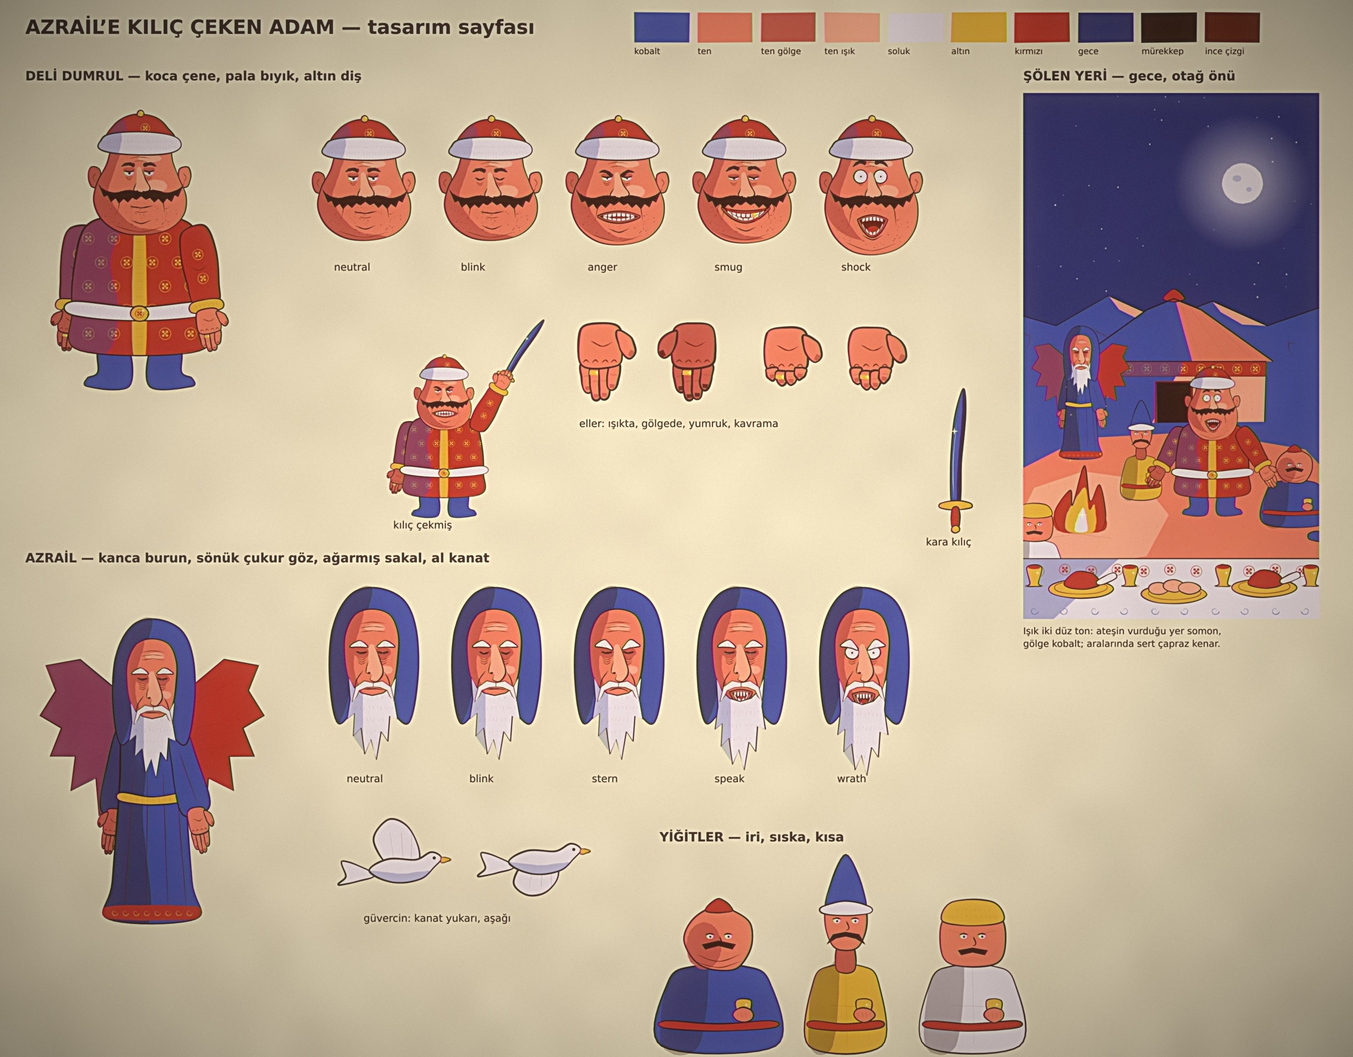
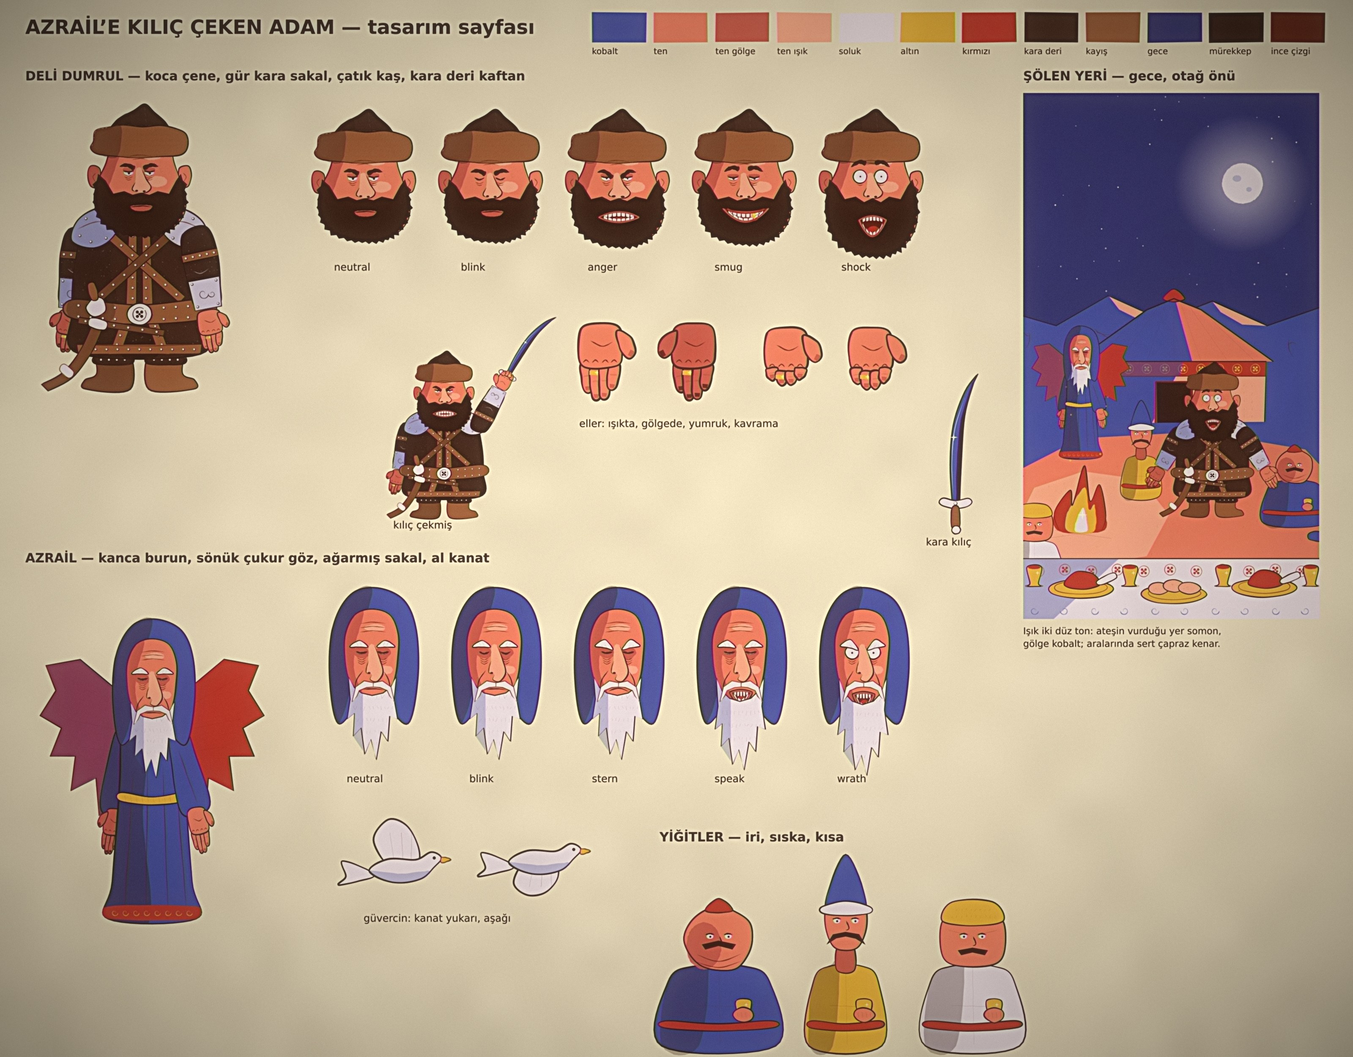
Deli Dumrul yeniden tasarlandı: kara deri kaftan, zımbalı kayışlar, omuzluk, kürklü börk, gür sakal

diff --git a/shorts/deli_dumrul/cast.py b/shorts/deli_dumrul/cast.py
@@ -5,98 +5,106 @@ from ..kit import *
 # Kilitli palet: bir mavi, bütün kadro için tek ten, bir soluk, iki vurgu.
 COBALT, SKIN, PALE, GOLD, RED = '#2a3fa3', '#ee6f58', '#e7dcf2', '#e3a72c', '#b3231c'
 SKIN_D, SKIN_L = '#c0473f', '#f89e84'      # gölgede koyu ten, ışıkta açık ten
+COAT, LEATHER = '#23130f', '#8a4b2c'       # Dumrul'un kara deri kaftanı (mürekkebin açığı) ve kayış kahvesi
 
 EXPR = {
-    'neutral': dict(brow=0.0, by=0, open=1.0, pupil=4.5, mouth='closed', jaw=0),
-    'blink':   dict(brow=0.0, by=1, open=0.0, pupil=4.5, mouth='closed', jaw=0),
-    'anger':   dict(brow=0.55, by=8, open=0.85, pupil=3.0, mouth='snarl', jaw=14, flare=1),
+    'neutral': dict(brow=0.32, by=4, open=0.9, pupil=4.2, mouth='closed', jaw=0),      # dinlenirken bile çatık
+    'blink':   dict(brow=0.32, by=5, open=0.0, pupil=4.2, mouth='closed', jaw=0),
+    'anger':   dict(brow=0.7, by=10, open=0.8, pupil=2.8, mouth='snarl', jaw=16, flare=1),
     'smug':    dict(brow=-0.18, by=-3, open=0.62, pupil=4.0, mouth='grin', jaw=8),
     'shock':   dict(brow=-0.3, by=-22, open=1.0, pupil=2.8, mouth='gape', jaw=46, shock=True),
 }
 
 
+def stud(x, y, r=4.2):
+    return f'<circle cx="{x:.1f}" cy="{y:.1f}" r="{r + 1.2:.1f}" fill="{INK}"/><circle cx="{x - 0.6:.1f}" cy="{y - 0.6:.1f}" r="{r:.1f}" fill="{PALE}"/>'
+
+
+def strap(a, b, w=26, studs=7, shade=False):
+    """Zımbalı deri kayış: iki nokta arasında bant."""
+    dx, dy = b[0] - a[0], b[1] - a[1]; d = math.hypot(dx, dy) or 1; nx, ny = -dy / d * w / 2, dx / d * w / 2
+    q = [(a[0] + nx, a[1] + ny), (b[0] + nx, b[1] + ny), (b[0] - nx, b[1] - ny), (a[0] - nx, a[1] - ny)]
+    s = fill(q, LEATHER, 0.8, smooth=False) + (fill(q, INK, 0.8, smooth=False, op=0.35) if shade else '')
+    s += ink(q, 2.6, closed=True, smooth=False, wob=0.3)
+    s += ''.join(stud(a[0] + dx * (i + 0.5) / studs, a[1] + dy * (i + 0.5) / studs, 3.6) for i in range(studs))
+    return s
+
+
 def dumrul_head(expr='neutral'):
-    """Deli Dumrul'un başı: koca çene, pala bıyık, börk. Tanıtıcı özelliği çenesi ve bıyığı."""
+    """Deli Dumrul'un başı: koca çene, kısa gür kara sakal, çatık kaş, kürklü börk."""
     e = EXPR[expr]; jaw = e['jaw']
     J = lambda x, y: (x, y + jaw * max(0.0, min(1.25, (y - 30) / 150)))
-    reseed('dumrul-head')
-    skull = [J(*p) for p in [(-95, -150), (-30, -180), (50, -176), (112, -138), (128, -70), (150, -10), (178, 62), (168, 132), (112, 186), (20, 208), (-72, 198), (-142, 152), (-174, 82), (-162, 10), (-126, -62)]]
+    skull = [J(*p) for p in [(-98, -150), (-30, -178), (52, -174), (114, -138), (132, -70), (152, -10), (176, 62), (168, 132), (116, 186), (20, 206), (-76, 196), (-144, 152), (-172, 82), (-162, 10), (-130, -62)]]
     s = clipdef('dh', skull)
-    # kulaklar
     for sx in (-1, 1):
         reseed(f'dumrul-ear{sx}')
-        ear = [(sx * 150, -40), (sx * 184, -52), (sx * 196, -18), (sx * 184, 22), (sx * 156, 20)]
-        s += blob(ear, SKIN_D if sx < 0 else SKIN, 3.6) + ink([(sx * 166, -28), (sx * 178, -12), (sx * 168, 6)], 2.0, wob=0.2)
+        ear = [(sx * 150, -44), (sx * 186, -56), (sx * 198, -20), (sx * 186, 22), (sx * 156, 20)]
+        s += blob(ear, SKIN_D if sx < 0 else SKIN, 3.4) + ink([(sx * 166, -30), (sx * 178, -14), (sx * 168, 6)], 2.0, wob=0.2)
     reseed('dumrul-skull')
     s += fill(skull, SKIN, 1.4)
-    # gölge: bir yanak ve çene altı; ışık: alın ve elmacık
     s += fill([J(*p) for p in [(-200, -160), (-70, -150), (-96, -40), (-118, 40), (-80, 120), (-10, 176), (90, 196), (60, 260), (-220, 260)]], SKIN_D, 1.2, clip='dh')
-    s += fill(ellipse(66, 22, 40, 26, 9, 0.12), SKIN_L, 1.0, clip='dh') + fill(ellipse(40, -86, 46, 16, 8, 0.1), SKIN_L, 1.0, clip='dh')
+    s += fill(ellipse(70, 4, 36, 22, 9, 0.12), SKIN_L, 1.0, clip='dh') + fill(ellipse(40, -92, 44, 14, 8, 0.1), SKIN_L, 1.0, clip='dh')
     s += ink(skull, 3.6, closed=True, press=0.5)
-    # çene çukuru, gıdı, sakal dipleri
-    reseed('dumrul-chin')
-    s += ink([J(-34, 150), J(6, 164), J(46, 150)], 2.6, wob=0.3) + ink([J(-96, 172), J(0, 196), J(92, 176)], 2.2, wob=0.4)
-    s += dots([J(*p) for p in [(-150, 70), (150, 70), (150, 150), (60, 196), (-60, 196), (-150, 150)]], 70, (0.9, 1.7))
-    s += ticks([J(*p) for p in [(-140, 90), (-70, 90), (-60, 180), (-130, 160)]], 9, (4, 7), 1.2, 0.4, 1.8)
-    # börk: kürk bant ve kırmızı tepe
+    # kısa gür sakal: som kara, dış kenarı dikenli; çeneyle birlikte iner
+    reseed('dumrul-beard')
+    outer = [(-158, -26), (-172, 52), (-164, 122), (-118, 180), (-46, 208), (20, 214), (82, 206), (126, 180), (166, 124), (176, 52), (158, -26)]
+    oc = catmull(outer, False, 5); barbed = []
+    for i, (x, y) in enumerate(oc):
+        k = 1 + (R(0.02, 0.075) if i % 2 else -0.01) * (1 if 2 < i < len(oc) - 3 else 0)   # kısa, düzensiz dikenler
+        barbed.append(J(x * k, 60 + (y - 60) * k))
+    inner = [(140, 0), (112, 50), (70, 40), (38, 54), (6, 46), (-26, 54), (-58, 40), (-100, 50), (-130, 0)]
+    s += fill(barbed + [J(*p) if p[1] > 50 else p for p in inner], INK, 0.6, smooth=False)
+    s += ''.join(ink([J(x, y), J(x + dx, y + 12)], 1.9, col=LEATHER, op=0.9, taper=(0.1, 0.7), wob=0, smooth=False) for x, y, dx in ((-120, 110, -4), (-70, 160, -2), (-10, 180, 0), (60, 172, 3), (118, 124, 5), (-136, 50, -4), (140, 60, 4)))
+    # börk: kabarık kürk bant, dikişli deri tepe
     reseed('dumrul-hat')
-    dome = [(-112, -150), (-96, -214), (-24, -252), (58, -244), (106, -204), (120, -150)]
-    s += blob(dome, RED, 4.0) + fill([(-112, -150), (-100, -205), (-60, -232), (-50, -150)], COBALT, 1.0, op=0.35)
-    s += medallion(22, -200, 17, GOLD) + blob(ellipse(4, -256, 13, 12, 7, 0.1), GOLD, 3.2) + sparkle(9, -261, 7)
-    band = [(-150, -150), (-120, -176), (-20, -186), (90, -180), (148, -160), (156, -126), (110, -104), (0, -98), (-110, -106), (-156, -124)]
-    s += blob(band, PALE, 4.0) + fill([(-156, -124), (-150, -150), (-120, -176), (-70, -182), (-80, -104), (-110, -106)], COBALT, 1.0, op=0.3)
-    s += fur(band, 4, 11, 10, 0.5, 2.3)
-    # göz torbaları ve gözler
+    dome = [(-108, -160), (-92, -226), (-22, -268), (20, -292), (54, -262), (104, -216), (116, -160)]
+    s += blob(dome, COAT, 3.8) + fill([(-108, -160), (-96, -220), (-40, -256), (-40, -160)], INK, 1.0, op=0.4)
+    s += ''.join(ink([(18 + k * 2, -280 + k * 22), (22 + k * 2, -268 + k * 22)], 2.0, col=PALE, op=0.85, wob=0, smooth=False) for k in range(5))
+    band = [(-176, -150), (-168, -190), (-120, -204), (-60, -212), (10, -206), (80, -212), (140, -198), (178, -176), (184, -132), (160, -100), (90, -92), (0, -86), (-90, -92), (-160, -102), (-186, -124)]
+    s += fill(band, LEATHER, 2.4) + fill([(-186, -124), (-176, -150), (-168, -190), (-120, -204), (-70, -208), (-84, -92), (-160, -102)], INK, 1.0, op=0.38)
+    s += ink(band, 3.4, closed=True, press=0.6, wob=1.4) + fur(band, 6, 11, 13, 0.6, 2.4) + dashrow([(-176, -150), (-120, -204), (10, -208), (140, -198), (182, -160)], 12, 12, -0.4, 2.2)
+    # göz torbaları, gözler
     reseed('dumrul-eyes')
-    ex = (-40, 36); ey = -30
+    ex = (-42, 38); ey = -30
     for cx in ex:
-        s += ink([(cx - 15, ey + 15), (cx, ey + 21), (cx + 16, ey + 14)], 2.0, wob=0.2) + ink([(cx - 11, ey + 22), (cx + 1, ey + 27), (cx + 12, ey + 22)], 1.8, wob=0.2)
+        s += ink([(cx - 16, ey + 15), (cx, ey + 21), (cx + 17, ey + 14)], 2.0, wob=0.2) + ink([(cx - 12, ey + 23), (cx + 1, ey + 28), (cx + 13, ey + 23)], 1.8, wob=0.2)
     sh = e.get('shock', False)
     for cx in ex:
         s += eye(cx, ey - (6 if sh else 0), 17, 12.5, PALE, SKIN_D, e['open'], e['pupil'], (1.5, 2 if not sh else 0), lid=0.26, shock=sh)
-    # kaşlar: kalın, kara, dikenli
+    # kaşlar: kalın, kara, dikenli; ortada çatık
     reseed('dumrul-brows')
     for sx, cx in ((-1, ex[0]), (1, ex[1])):
         b = e['brow']; y0 = ey - 27 + e['by']
-        inner = (cx - sx * 22, y0 + b * 24); outer = (cx + sx * 30, y0 - b * 10 + 3)
-        mid = ((inner[0] + outer[0]) / 2, min(inner[1], outer[1]) - 7 + abs(b) * 5)
-        s += ink([inner, mid, outer], 13, taper=(0.06, 0.5), press=0.25, wob=0.5)
-        for k in (0.25, 0.5, 0.72):   # dikenler
-            px, py = inner[0] + (outer[0] - inner[0]) * k, inner[1] + (outer[1] - inner[1]) * k - 6
-            s += ink([(px, py), (px + sx * 5, py - 9)], 3.0, col=INK, taper=(0, 0.8), wob=0, smooth=False)
-        if b > 0.2: s += ink([(cx - sx * 30, y0 + b * 24 - 14), (cx - sx * 27, y0 + b * 24 + 6)], 2.2, wob=0, smooth=False)
-    # alın kırışıkları
-    s += ink([(-40, -84), (0, -90), (44, -84)], 2.0, wob=0.4) + ink([(-26, -72), (4, -76), (30, -72)], 1.8, wob=0.3)
-    # burun: uzun, iri, ucu yumru
+        inner_p = (cx - sx * 24, y0 + b * 24); outer_p = (cx + sx * 34, y0 - b * 12 + 3)
+        mid = ((inner_p[0] + outer_p[0]) / 2, min(inner_p[1], outer_p[1]) - 7 + abs(b) * 6)
+        s += ink([inner_p, mid, outer_p], 16, taper=(0.05, 0.45), press=0.25, wob=0.5)
+        for k in (0.2, 0.42, 0.64):
+            px, py = inner_p[0] + (outer_p[0] - inner_p[0]) * k, inner_p[1] + (outer_p[1] - inner_p[1]) * k - 7
+            s += ink([(px, py), (px + sx * 6, py - 10)], 3.2, col=INK, taper=(0, 0.8), wob=0, smooth=False)
+    if e['brow'] > 0.2:   # kaş arası kırışıkları
+        s += ink([(-10, ey - 34), (-6, ey - 12)], 2.4, wob=0, smooth=False) + ink([(6, ey - 36), (4, ey - 14)], 2.4, wob=0, smooth=False)
+    s += ink([(-44, -92), (0, -98), (48, -92)], 2.0, wob=0.4) + ink([(-28, -80), (4, -84), (32, -80)], 1.8, wob=0.3)
+    s += ink([(70, -64), (84, -30)], 2.2, wob=0, smooth=False) + ''.join(ink([(72 + k * 5, -56 + k * 11), (82 + k * 5, -58 + k * 11)], 1.8, wob=0, smooth=False) for k in range(3))   # yara izi
+    # burun: geniş, yumru
     reseed('dumrul-nose')
     fl = e.get('flare', 0) * 5
-    nose = [(-10, -46), (6, -48), (22, -4), (38 + fl, 30), (22 + fl, 46), (0, 48), (-20 - fl, 38), (-12, 6)]
-    s += fill(nose, SKIN_L, 1.0) + ink([(8, -46), (24, -4), (40 + fl, 30), (24 + fl, 47), (2, 49)], 3.6, wob=0.4, taper=(0.3, 0.2))
-    s += ink([(-12, 8), (-22 - fl, 36), (-8, 46)], 2.6, wob=0.3)
-    s += fill(ellipse(-9 - fl * 0.5, 41, 5 + fl * 0.4, 3.2, 6), INK, 0.3) + fill(ellipse(16 + fl * 0.5, 43, 5 + fl * 0.4, 3.2, 6), INK, 0.3)
-    # burun kanadından gıdıya inen derin kıvrımlar
-    s += ink([(-34, 30), J(-70, 70), J(-84, 122)], 2.8, wob=0.5, taper=(0.2, 0.5)) + ink([(48, 32), J(86, 72), J(96, 124)], 2.8, wob=0.5, taper=(0.2, 0.5))
-    # ağız (bıyığın altında; sırıtış bıyığı aşacak kadar geniş)
+    nose = [(-12, -44), (8, -46), (24, -6), (42 + fl, 26), (26 + fl, 44), (0, 46), (-26 - fl, 36), (-16, 4)]
+    s += fill(nose, SKIN_L, 1.0) + ink([(8, -44), (26, -6), (44 + fl, 26), (28 + fl, 45), (2, 47)], 3.6, wob=0.4, taper=(0.3, 0.2))
+    s += ink([(-16, 6), (-28 - fl, 34), (-10, 44)], 2.6, wob=0.3)
+    s += fill(ellipse(-11 - fl * 0.5, 39, 5.5 + fl * 0.4, 3.4, 6), INK, 0.3) + fill(ellipse(18 + fl * 0.5, 41, 5.5 + fl * 0.4, 3.4, 6), INK, 0.3)
+    # ağız sakalın üstüne çizilir; dudak sakalı yarar
     reseed('dumrul-mouth')
     m = e['mouth']; mx, my = 6, 96 + jaw * 0.45
     if m == 'closed':
-        s += ink([(mx - 44, my + 2), (mx, my + 8), (mx + 46, my)], 3.2, wob=0.4) + ink([(mx - 22, my + 22), (mx + 2, my + 26), (mx + 26, my + 21)], 2.0, wob=0.2)
+        s += fill([(mx - 40, my + 2), (mx, my - 3), (mx + 42, my + 1), (mx + 30, my + 17), (mx, my + 21), (mx - 28, my + 17)], SKIN_D, 0.8)
+        s += ink([(mx - 44, my + 6), (mx, my + 1), (mx + 46, my + 5)], 3.2, wob=0.4) + ink([(mx - 26, my + 19), (mx + 2, my + 22), (mx + 28, my + 18)], 2.0, wob=0.2)
     elif m == 'grin':
-        s += mouth(mx, my + 4, 86, 2, 30, 20, SKIN_D, FINE, RED, PALE, gum=RED, top=8, bot=7)
-        s += fill([(mx + 22, my + 4), (mx + 40, my + 2), (mx + 38, my + 20), (mx + 24, my + 21)], GOLD, 0.4, smooth=False) + sparkle(mx + 34, my + 8, 6)
-        s += ink([(mx - 98, my - 30), (mx - 108, my - 12), (mx - 100, my + 6)], 2.4, wob=0.2) + ink([(mx + 100, my - 32), (mx + 110, my - 14), (mx + 102, my + 4)], 2.4, wob=0.2)
+        s += mouth(mx, my + 4, 82, 2, 30, 18, SKIN_D, FINE, RED, PALE, gum=RED, top=8, bot=7)
+        s += fill([(mx + 20, my + 6), (mx + 38, my + 4), (mx + 36, my + 22), (mx + 22, my + 23)], GOLD, 0.4, smooth=False) + sparkle(mx + 32, my + 10, 6)
     elif m == 'snarl':
-        s += mouth(mx, my + 6, 74, 6, 26, -8, SKIN_D, FINE, RED, PALE, top=7, bot=7)
+        s += mouth(mx, my + 6, 72, 8, 26, -10, SKIN_D, FINE, RED, PALE, top=7, bot=7)
     else:
-        s += mouth(mx, my + 14, 50, 14, 58, 0, SKIN_D, FINE, RED, PALE, top=6, bot=6)
-    # pala bıyık: som kara, alt kenarı dikenli
-    reseed('dumrul-moustache')
-    for sx in (-1, 1):
-        topc = [(6, 44), (6 + sx * 50, 36), (6 + sx * 104, 46), (6 + sx * 150, 28), (6 + sx * 166, 6)]
-        top_s = catmull(topc, False, 6)
-        low = [(6 + sx * 160, 22), (6 + sx * 142, 62), (6 + sx * 128, 56), (6 + sx * 116, 82), (6 + sx * 98, 68), (6 + sx * 84, 88), (6 + sx * 66, 70), (6 + sx * 50, 84), (6 + sx * 34, 66), (6 + sx * 18, 74), (6, 60)]
-        s += fill(top_s + low, INK, 0.8, smooth=False)
-    s += ink([(6, 46), (6, 62)], 1.6, col=FINE, wob=0, smooth=False)
+        s += mouth(mx, my + 14, 48, 14, 58, 0, SKIN_D, FINE, RED, PALE, top=6, bot=6)
     return s
 
 
@@ -131,32 +139,63 @@ def hand(lit=True, pose='open', ring=True, flip=1):
 
 
 def sword():
-    """Kara kılıç: kabza (0,0)'da, namlu yukarı uzanır."""
+    """Kara kılıç: eğri namlu, haç balçak. Kabza (0,0)'da, namlu yukarı uzanır."""
     reseed('sword')
-    blade = [(-13, -10), (-16, -150), (-4, -290), (26, -390), (34, -300), (20, -150), (14, -10)]
-    s = fill(blade, COBALT, 1.0) + fill([(4, -10), (8, -150), (20, -290), (26, -390), (34, -300), (20, -150), (14, -10)], INK, 0.8, op=0.75)
-    s += ink(blade, 3.2, closed=True) + ink([(-6, -30), (-8, -150), (4, -280)], 1.8, col=PALE, op=0.9, wob=0.2) + sparkle(-4, -250, 13)
-    s += blob([(-48, -14), (0, -22), (48, -14), (50, 2), (0, 8), (-50, 2)], GOLD, 3.2) + blob([(-11, 4), (11, 4), (12, 62), (-12, 62)], RED, 3.0)
-    s += ''.join(ink([(-11, y), (11, y + 5)], 1.8, wob=0, smooth=False) for y in (16, 28, 40, 52)) + blob(ellipse(0, 72, 14, 12, 7), GOLD, 3.0)
+    edge = [(-12, -16), (-18, -140), (-8, -270), (30, -380), (74, -440)]
+    back = [(60, -410), (30, -300), (20, -150), (14, -16)]
+    blade = catmull(edge, False, 6) + catmull(back, False, 6)
+    s = fill(blade, COBALT, 0.8, smooth=False) + fill(catmull([(2, -16), (4, -150), (18, -290), (56, -410)], False, 6) + catmull(back, False, 6), INK, 0.6, smooth=False, op=0.8)
+    s += ink(blade, 3.0, closed=True, smooth=False, wob=0.3) + ink([(-8, -40), (-12, -150), (-2, -260), (30, -360)], 1.9, col=PALE, op=0.9, wob=0.2) + sparkle(-6, -230, 13)
+    s += blob([(-54, -18), (-40, -30), (0, -22), (40, -30), (54, -18), (40, -4), (0, 4), (-40, -4)], PALE, 3.0) + stud(0, -13, 5)
+    s += blob([(-11, 2), (11, 2), (13, 64), (-13, 64)], LEATHER, 2.8) + ''.join(ink([(-11, y), (11, y + 5)], 1.8, wob=0, smooth=False) for y in (14, 26, 38, 50))
+    s += blob(ellipse(2, 74, 15, 13, 7), PALE, 2.8)
     return s
 
 
 def dumrul_body():
-    """Gövde: fıçı gibi; boyun kökü (0,0)'da. Kırmızı kaftan, altın madalyonlar, kuşak."""
+    """Gövde: fıçı gibi; boyun kökü (0,0). Kara deri kaftan, çapraz zımbalı kayışlar, omuzluk, geniş kemer, belde kın."""
     reseed('dumrul-body')
-    torso = [(-70, -14), (70, -14), (176, 22), (214, 150), (222, 300), (196, 430), (-196, 430), (-222, 300), (-214, 150), (-176, 22)]
+    torso = [(-70, -14), (70, -14), (176, 22), (214, 150), (222, 300), (200, 440), (-200, 440), (-222, 300), (-214, 150), (-176, 22)]
     s = clipdef('db', torso)
     for sx in (-1, 1):   # çizmeler
-        s += blob([(sx * 40, 420), (sx * 132, 420), (sx * 138, 500), (sx * 172, 520), (sx * 170, 548), (sx * 34, 548)], COBALT, 3.4)
-        s += ink([(sx * 44, 470), (sx * 130, 474)], 2.0, wob=0.3) + ''.join(ink([(sx * (60 + k * 22), 530), (sx * (64 + k * 22), 540)], 1.8, wob=0, smooth=False) for k in range(4))
-    s += fill(torso, RED, 1.5)
-    s += '<g clip-path="url(#db)">' + ''.join(medallion(-168 + j * 84 + (42 if i % 2 else 0), 62 + i * 78, 19, GOLD, 2.0) for i in range(5) for j in range(5)) + '</g>'   # brokar
-    s += fill([(-240, -20), (-60, -20), (-96, 140), (-70, 300), (-110, 440), (-240, 440)], COBALT, 1.2, clip='db', op=0.42)   # gölge yanı
-    s += fill([(-16, -14), (16, -14), (22, 430), (-22, 430)], GOLD, 1.0, clip='db') + ''.join(ink([(-12, y), (12, y)], 1.8, wob=0, smooth=False) for y in range(20, 420, 26))
+        reseed(f'dumrul-boot{sx}')
+        boot = [(sx * 36, 430), (sx * 136, 430), (sx * 142, 506), (sx * 180, 526), (sx * 178, 556), (sx * 30, 556)]
+        s += blob(boot, LEATHER, 3.4) + (fill(boot, INK, 1.0, op=0.35) if sx < 0 else '')
+        s += blob([(sx * 32, 446), (sx * 140, 446), (sx * 142, 474), (sx * 30, 474)], COAT, 2.6) + ''.join(stud(sx * (48 + k * 26), 460, 3.2) for k in range(4))
+        s += ticks([(sx * 40, 480), (sx * 136, 480), (sx * 170, 548), (sx * 36, 548)], 10, (5, 9), 0.2 * sx, 0.5, 1.9)
+    reseed('dumrul-coat')
+    s += fill(torso, COAT, 1.5)
+    s += fill([(-10, 330), (10, 330), (60, 446), (-60, 446)], INK, 1.0, clip='db')                    # etek yırtmacı: içi koyu
+    s += fill([(-240, -20), (-60, -20), (-96, 140), (-70, 300), (-110, 450), (-240, 450)], INK, 1.2, clip='db', op=0.42)   # gölge yanı
+    s += '<g clip-path="url(#db)">' + dots(torso, 150, (1.0, 1.8), PALE, 0.22) + '</g>'                 # deri gözenekleri
+    for sx in (-1, 1):   # ön kenar şeritleri: yakadan eteğe, kemerin altında açılır
+        band = [(sx * 34, -14), (sx * 8, -14), (sx * 10, 290), (sx * 62, 440), (sx * 100, 440), (sx * 44, 290)]
+        s += fill(band, LEATHER, 1.0, smooth=False, clip='db') + ink(band, 2.6, closed=True, smooth=False, wob=0.3)
+        s += ''.join(stud(sx * 22, y, 3.4) for y in range(20, 280, 34)) + ''.join(stud(sx * (34 + (y - 300) * 0.36), y, 3.4) for y in range(350, 430, 30))
+    s += fill([(-204, 410), (204, 410), (200, 440), (-200, 440)], LEATHER, 1.0, smooth=False, clip='db') + ink([(-204, 410), (0, 414), (204, 410)], 2.4, wob=0.4) + ''.join(stud(x, 426, 3.2) for x in range(-180, 190, 36))
     s += ink(torso, 4.0, closed=True, press=0.45)
-    belt = [(-218, 268), (0, 286), (220, 268), (224, 312), (0, 332), (-222, 312)]
-    s += blob(belt, PALE, 3.4) + fur(belt, 2, 14, 7, 0.2, 1.9) + blob(ellipse(0, 308, 30, 25, 9), GOLD, 3.4) + medallion(0, 308, 14, RED, 1.8) + sparkle(12, 298, 8)
-    s += blob([(-74, -30), (0, -12), (74, -30), (60, 12), (0, 26), (-60, 12)], PALE, 3.4) + fur([(-70, -26), (70, -26), (58, 12), (-58, 12)], 2, 12, 8, 0.4, 2.0)
+    s += strap((-150, 4), (140, 262), 28, 8, False) + strap((150, 4), (-140, 262), 28, 8, True)       # çapraz kayışlar
+    for sx in (-1, 1):   # omuzluklar: perçinli çelik
+        reseed(f'dumrul-pauldron{sx}')
+        p = [(sx * 222, 70), (sx * 204, 2), (sx * 130, -40), (sx * 62, -22), (sx * 84, 52), (sx * 150, 92)]
+        s += fill(p, PALE, 1.2) + fill(p, COBALT, 1.2, op=0.5 if sx < 0 else 0.18) + ink(p, 3.4, closed=True, press=0.4)
+        s += ink([(sx * 204, 30), (sx * 140, 6), (sx * 78, 14)], 2.0, wob=0.3) + ''.join(stud(sx * x, y, 3.4) for x, y in ((196, 52), (160, 72), (110, 60), (90, 30), (120, -18), (176, -4)))
+        s += dashrow([(sx * 222, 70), (sx * 150, 92), (sx * 84, 52)], 12, 7, 0.2, 2.0)
+    reseed('dumrul-belt')
+    belt = [(-222, 262), (0, 280), (224, 262), (228, 322), (0, 342), (-226, 322)]
+    s += blob(belt, LEATHER, 3.4) + fill([(-226, 322), (-222, 262), (-90, 272), (-100, 334)], INK, 0.8, op=0.35) + ''.join(stud(x, 280 + (1 - abs(x) / 230) * 14, 3.6) + stud(x, 316 + (1 - abs(x) / 230) * 16, 3.6) for x in range(-200, 210, 40) if abs(x) > 50)
+    s += blob(ellipse(0, 310, 40, 36, 10, 0.02), PALE, 3.4) + medallion(0, 310, 22, INK, 2.2) + sparkle(16, 294, 9)
+    s += strap((-200, 330), (80, 372), 20, 6, True)                                                   # kılıç kayışı
+    # belde kın
+    reseed('dumrul-scabbard')
+    sc = catmull([(-150, 330), (-190, 420), (-250, 500), (-322, 540)], False, 6) + catmull([(-300, 562), (-222, 520), (-160, 440), (-116, 344)], False, 6)
+    s += fill(sc, LEATHER, 0.8, smooth=False) + fill(sc, INK, 0.8, smooth=False, op=0.3) + ink(sc, 3.0, closed=True, smooth=False, wob=0.3)
+    s += blob([(-158, 322), (-108, 336), (-116, 362), (-166, 348)], PALE, 2.6) + blob([(-248, 474), (-216, 500), (-232, 520), (-262, 494)], PALE, 2.4)
+    s += blob([(-176, 290), (-150, 256), (-120, 262), (-112, 300), (-150, 318)], PALE, 2.8) + blob([(-158, 262), (-170, 214), (-148, 208), (-136, 258)], LEATHER, 2.6)
+    # kürk yaka
+    reseed('dumrul-collar')
+    col = [(-78, -30), (0, -12), (78, -30), (62, 14), (0, 30), (-62, 14)]
+    s += blob(col, LEATHER, 3.2) + fur(col, 2, 11, 9, 0.4, 2.1)
     return s
 
 
@@ -164,21 +203,23 @@ def dumrul_arm(side=1, lit=True, pose='open'):
     """Kol: omuz (0,0)'da, aşağı sarkar; el ucunda. Kaldırmak için omuzdan döndürülür."""
     reseed(f'dumrul-arm{side}')
     arm = [(-44, -10), (30, -22), (56, 60), (52, 170), (40, 236), (-36, 236), (-52, 160), (-60, 60)]
-    s = fill(arm, RED, 1.4)
-    if not lit: s += fill(arm, COBALT, 1.4, op=0.42)
-    s += medallion(-4, 70, 17, GOLD, 2.0) + medallion(2, 150, 17, GOLD, 2.0)
-    s += ink(arm, 3.8, closed=True, press=0.45) + ink([(-30, 110), (-6, 122), (22, 108)], 2.0, wob=0.3)
-    s += blob([(-44, 224), (44, 224), (48, 258), (-48, 258)], GOLD, 3.2) + ''.join(ink([(x, 230), (x + 3, 252)], 1.8, wob=0, smooth=False) for x in range(-36, 40, 14))
+    s = fill(arm, COAT, 1.4)
+    if not lit: s += fill(arm, INK, 1.4, op=0.42)
+    s += dots(arm, 36, (1.0, 1.8), PALE, 0.22) + ink(arm, 3.8, closed=True, press=0.45) + ink([(-30, 118), (-6, 128), (22, 116)], 2.0, col=PALE, op=0.5, wob=0.3)
+    s += strap((-60, 74), (58, 66), 24, 5, not lit)                                                   # pazı bandı
+    br = [(-52, 150), (52, 146), (46, 244), (-42, 248)]                                                # kolçak: çelik, kıvrım işlemeli
+    s += fill(br, PALE, 1.0, smooth=False) + fill(br, COBALT, 1.0, smooth=False, op=0.5 if not lit else 0.16) + ink(br, 3.2, closed=True, smooth=False, wob=0.4)
+    s += scroll(-8, 196, 18, INK, 2.0) + scroll(20, 200, 12, INK, 1.9, -1) + ''.join(stud(x, y, 3.2) for x, y in ((-40, 160), (40, 157), (-32, 236), (36, 234)))
     s += group(hand(lit, pose, True, side), 0, 262)
     return s
 
 
 def dumrul(expr='neutral', armL=8, armR=-8, hr=0, poseR='open', sword_in_hand=False):
     """Bütün figür (tasarım sayfası ve tek kare için). Boyun kökü (0,0)."""
-    s = group(dumrul_arm(-1, False), -186, 44, armL)
+    s = group(dumrul_arm(-1, False), -190, 48, armL)
     s += dumrul_body()
     extra = group(sword(), 0, 318, 180) if sword_in_hand else ''   # namlu, kolun uzantısında
-    s += group((extra if sword_in_hand else '') + dumrul_arm(1, True, poseR), 186, 44, armR)
+    s += group(extra + dumrul_arm(1, True, poseR), 190, 48, armR)
     s += group(dumrul_head(expr), 0, -150, hr, 0.86, None, 0, 150)
     return s
 

diff --git a/shorts/deli_dumrul/sheet.py b/shorts/deli_dumrul/sheet.py
@@ -15,12 +15,12 @@ def sheet(out):
     W, H = 3200, 2500
     b = label(60, 80, 'AZRAİL’E KILIÇ ÇEKEN ADAM — tasarım sayfası', 46, True)
     # palet
-    pal = [('kobalt', cast.COBALT), ('ten', cast.SKIN), ('ten gölge', cast.SKIN_D), ('ten ışık', cast.SKIN_L), ('soluk', cast.PALE), ('altın', cast.GOLD), ('kırmızı', cast.RED), ('gece', sets.NIGHT), ('mürekkep', INK), ('ince çizgi', FINE)]
+    pal = [('kobalt', cast.COBALT), ('ten', cast.SKIN), ('ten gölge', cast.SKIN_D), ('ten ışık', cast.SKIN_L), ('soluk', cast.PALE), ('altın', cast.GOLD), ('kırmızı', cast.RED), ('kara deri', cast.COAT), ('kayış', cast.LEATHER), ('gece', sets.NIGHT), ('mürekkep', INK), ('ince çizgi', FINE)]
     for i, (n, c) in enumerate(pal):
         reseed('pal' + n)
-        b += fill([(1500 + i * 150, 30), (1630 + i * 150, 30), (1630 + i * 150, 100), (1500 + i * 150, 100)], c, 1.5, smooth=False) + label(1500 + i * 150, 128, n, 20)
+        b += fill([(1400 + i * 146, 30), (1528 + i * 146, 30), (1528 + i * 146, 100), (1400 + i * 146, 100)], c, 1.5, smooth=False) + label(1400 + i * 146, 128, n, 20)
     # Deli Dumrul
-    b += label(60, 190, 'DELİ DUMRUL — koca çene, pala bıyık, altın diş', 30, True)
+    b += label(60, 190, 'DELİ DUMRUL — koca çene, gür kara sakal, çatık kaş, kara deri kaftan', 30, True)
     b += group(cast.dumrul('neutral'), 330, 520, 0, 0.72)
     for i, n in enumerate(cast.EXPR):
         b += group(cast.dumrul_head(n), 860 + i * 300, 440, 0, 0.62) + label(790 + i * 300, 640, n, 24)
